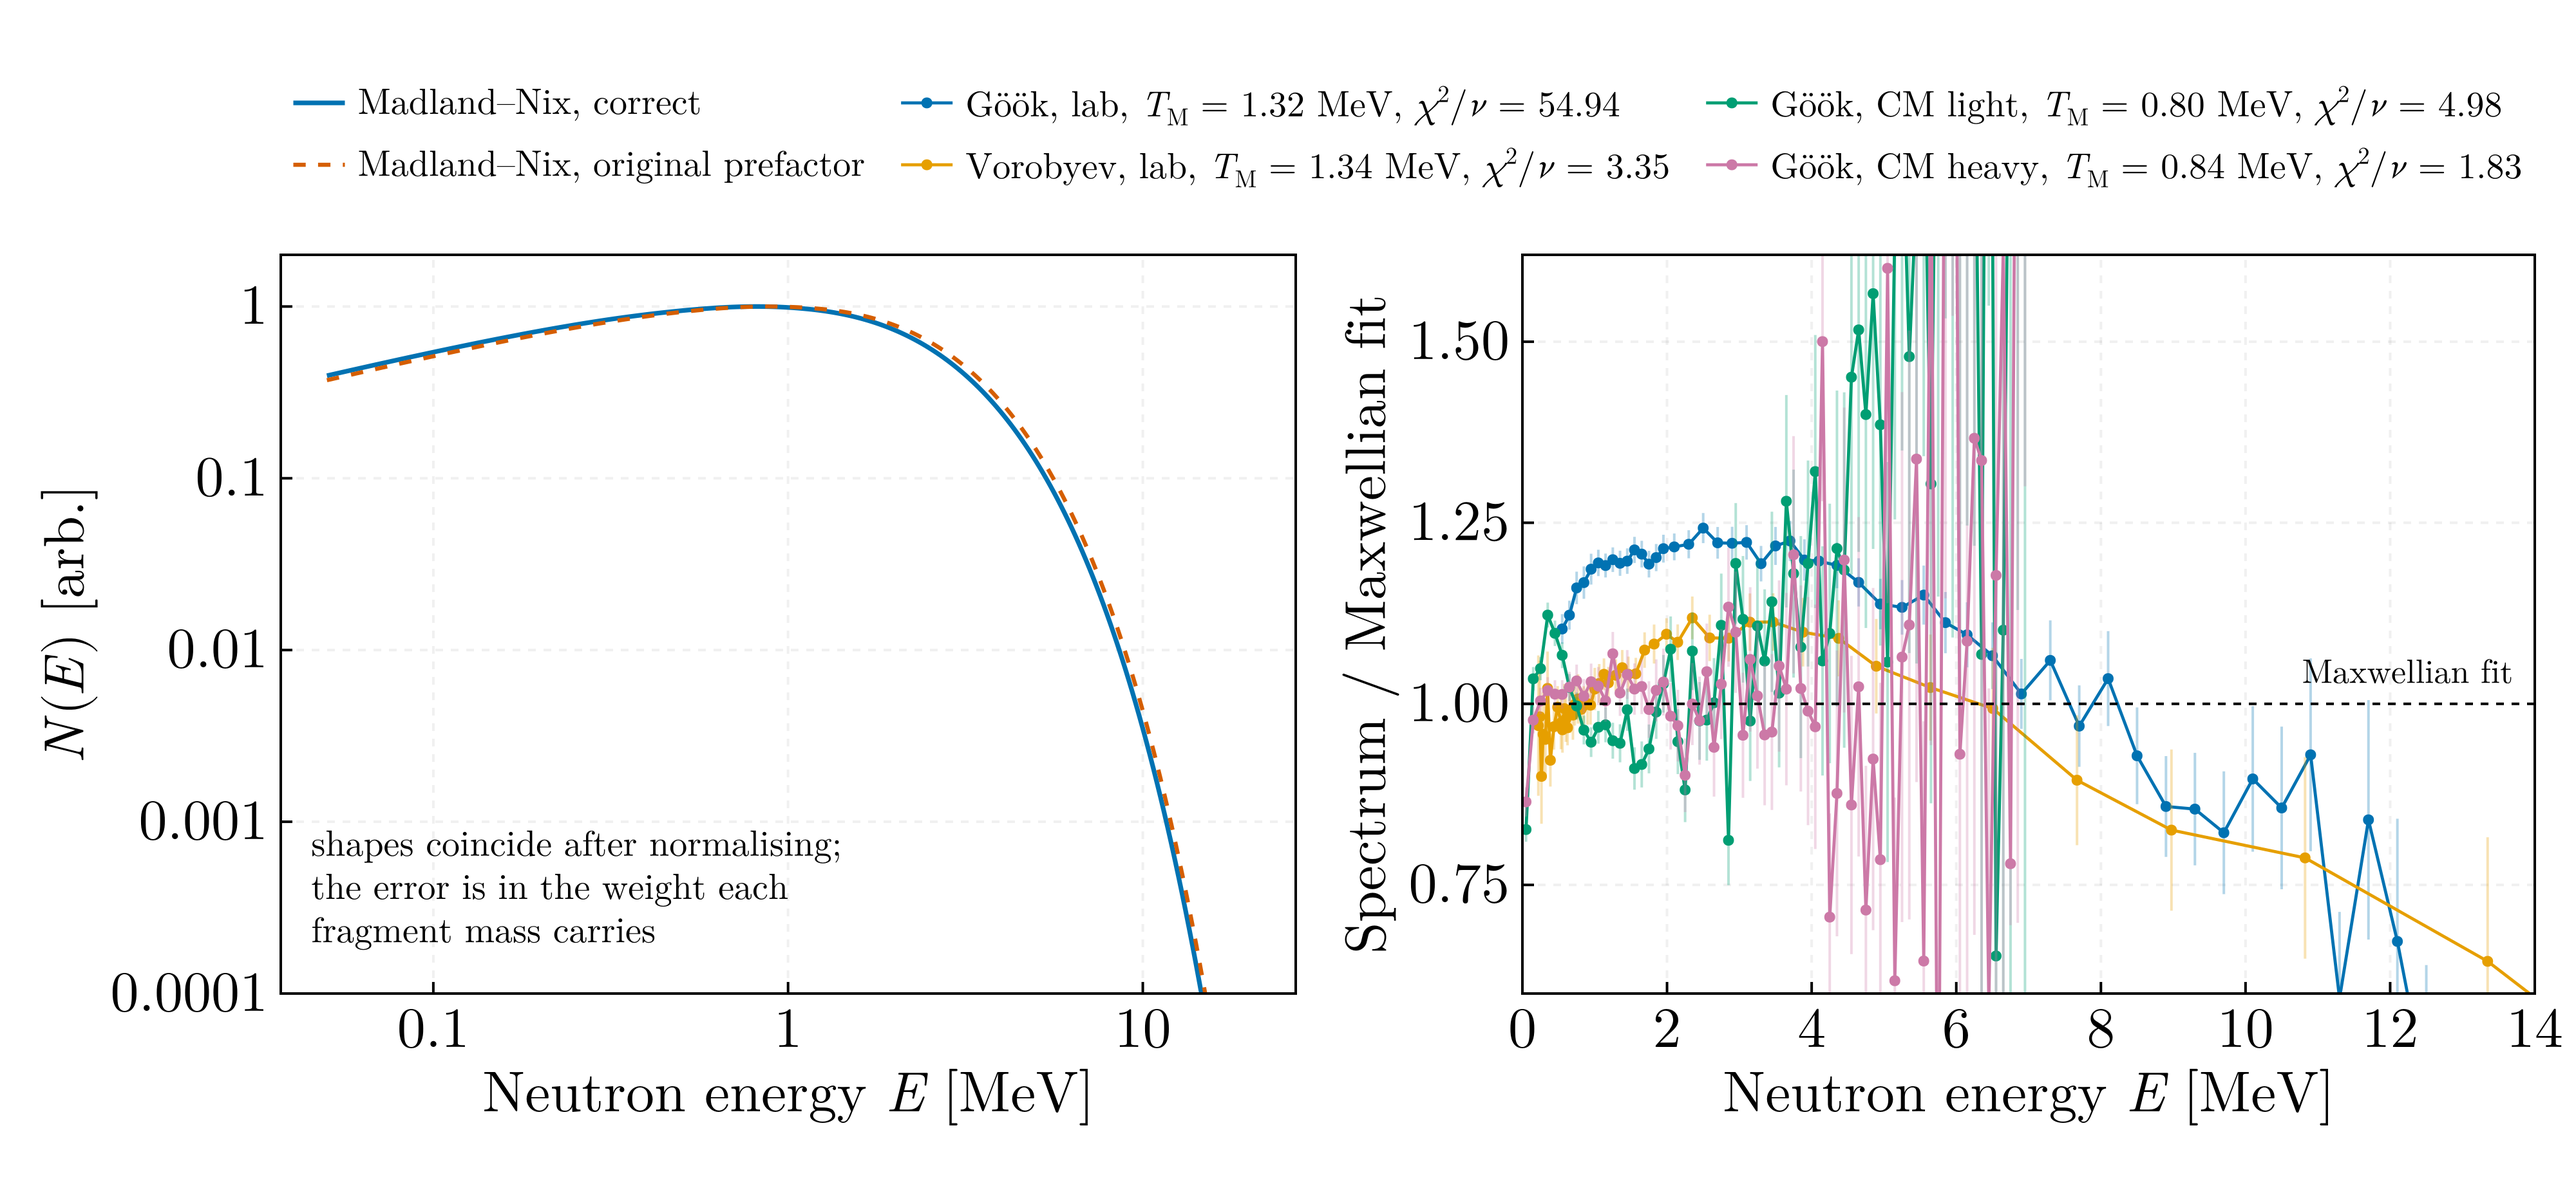
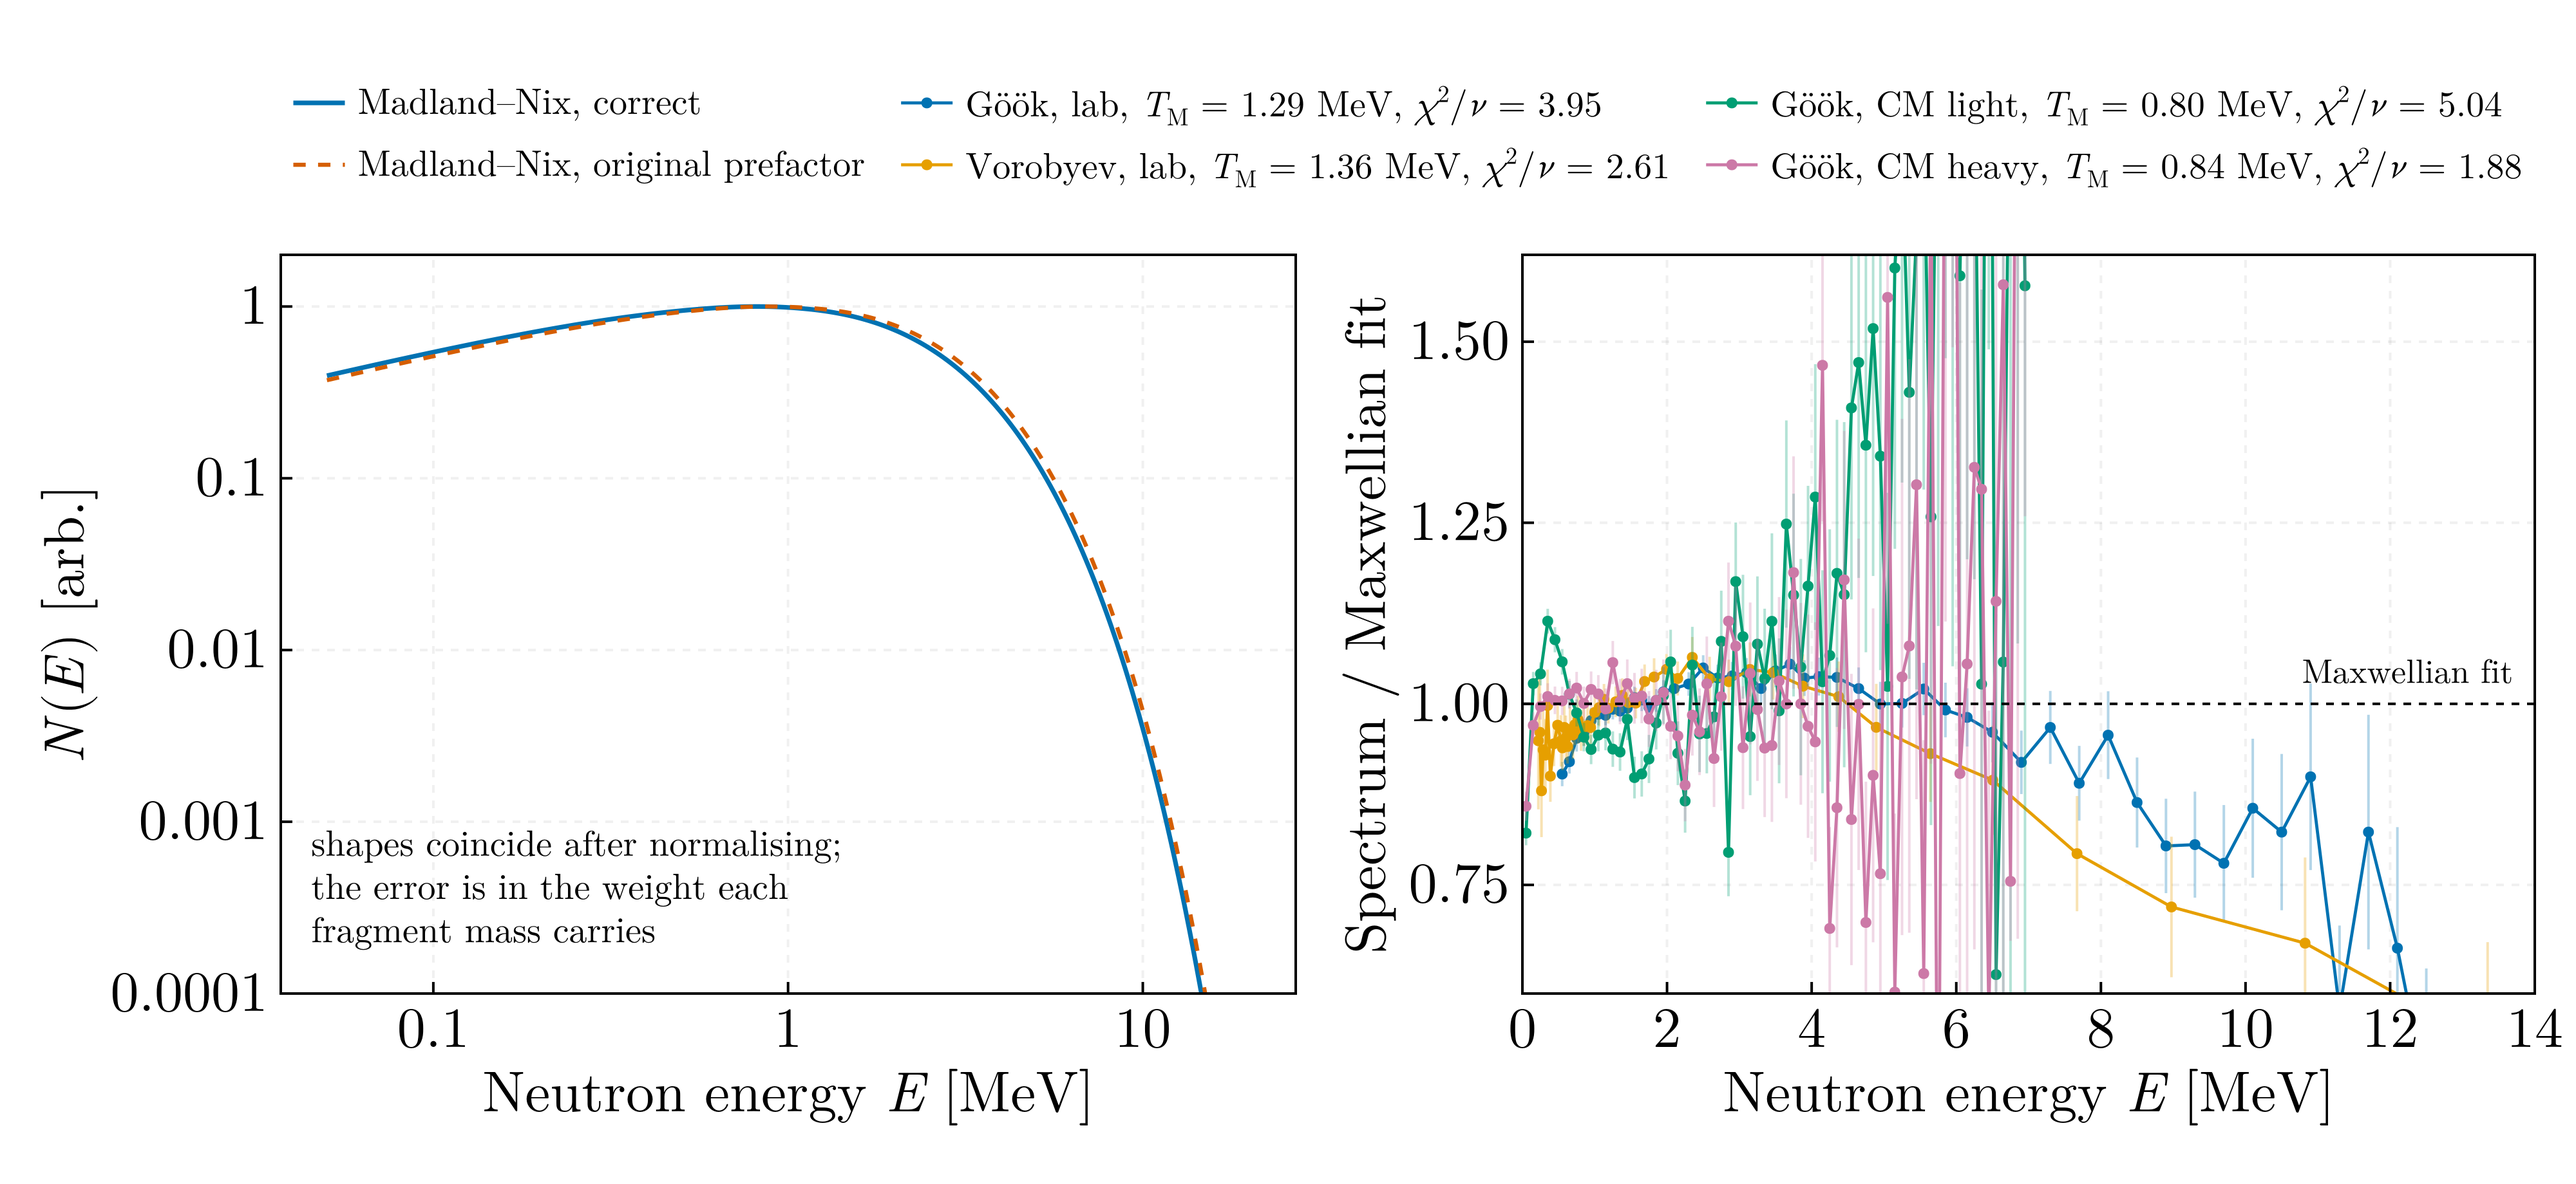
fix(msc/04): normalise the Maxwellian over the measured window
The fit normalised each measured spectrum to unit area over its own energy
window and compared it with a Maxwellian normalised over all energies. The
Göök laboratory set covers 0.55 to 12.5 MeV, 84 % of the distribution, so the
model sat a fifth below the data everywhere and the fit compensated with
temperature: T_M = 1.322 MeV at chi2/nu = 54.9.

Fisiune_5.jl had this right. It divided the model by its integral over
[E_min, E_max], a quantity that depends on T_M and so cannot be dropped as a
constant of the sum, which is how it was lost in the port. It is restored from
the closed-form distribution function, once per trial temperature:

  Göök, lab     1.3222 -> 1.2946 MeV, chi2/nu 54.9 -> 3.95
  Vorobyev, lab   1.3362 -> 1.3603 MeV, chi2/nu 3.35 -> 2.61
  CM light/heavy  0.7964/0.8388 -> 0.7998/0.8413 MeV

The Göök value now agrees with the 1.297 MeV the course quotes. The ratio
panel uses the same normalisation, which removes the offset of the laboratory
series from unity, and the README no longer reads that offset as physics.

Also correct the pair multiplicity quoted in two READMEs, 2.883, to the 2.573
the script has printed since the yield weighting was fixed.

diff --git a/msc/04-fission-observables/README.md b/msc/04-fission-observables/README.md
@@ -148,14 +148,21 @@ correct equivalent Maxwellian temperature of 1.40 MeV sits above the evaluated
 
 | Dataset | T_M [MeV] | χ²/ν |
 |---|---|---|
-| Göök, lab | 1.3222 | 54.9 |
-| Vorobyev, lab | 1.3362 | 3.35 |
-| Göök, CM light | 0.7964 | 4.98 |
-| Göök, CM heavy | 0.8388 | 1.83 |
+| Göök, lab | 1.2946 | 3.95 |
+| Vorobyev, lab | 1.3603 | 2.61 |
+| Göök, CM light | 0.7998 | 5.04 |
+| Göök, CM heavy | 0.8413 | 1.88 |
 
-The laboratory temperatures land on the evaluated ~1.32 MeV for ²³⁵U(n_th,f),
-and the centre-of-mass values sit well below them, as removing the fragment
-motion requires.
+The two laboratory temperatures bracket the evaluated ~1.32 MeV for
+²³⁵U(n_th,f), the Göök value agreeing with the 1.297 MeV the course quotes for
+the Hambsch and Kornilov set, and the centre-of-mass values sit well below
+them, as removing the fragment motion requires.
+
+Data and model are both normalised to unit area over the measured window. The
+window matters: the Göök laboratory spectrum runs from 0.55 to 12.5 MeV and
+holds 84 % of the Maxwellian, so comparing it with a Maxwellian normalised over
+all energies offsets the whole ratio by a fifth, drags T_M up to 1.322 MeV and
+returns χ²/ν = 54.9 for what is in fact a good fit.
 
 **The Madland–Nix prefactor was wrong.** The original wrote
 
@@ -196,8 +203,8 @@ p = 6.71 − Z²·0.156/A = 1.116 MeV        q = 0.75 + Z²·0.088/A = 3.905 MeV
 
 against Göök, Maslin, Nishio and Vorobyev.
 
-⟨ν_pair⟩ = **2.883** against the evaluated **2.42**, +19 %. The residual is the
-model: prompt γ emission competes for the same excitation energy and carries off
+⟨ν_pair⟩ = **2.573**, yield-weighted, against the evaluated **2.42**, +6 %. The
+residual is the model: prompt γ emission competes for the same excitation energy and carries off
 6–7 MeV per fission, which this balance does not account for. The measured sets
 average 1.16–1.32 neutrons per fragment, consistent with 2.42 for the pair.
 

diff --git a/README.md b/README.md
@@ -120,8 +120,8 @@ fails. A perturbation of 10⁻¹² changes y(100) from 0 to 59.7. The 2021 file 
 | Maximum binding energy per nucleon | 8.7946 MeV at **⁶²Ni**, over ⁵⁶Fe at 8.7904 |
 | ⟨TKE⟩ in ²³⁵U(n_th,f) | 170.55 MeV |
 | S_n(²³⁶U) | 6.546 MeV |
-| Prompt-neutron spectrum temperature | 1.322 and 1.336 MeV (lab), 0.796 and 0.839 (CM) |
-| Prompt-neutron pair multiplicity | 2.883 (evaluated 2.42) |
+| Prompt-neutron spectrum temperature | 1.295 and 1.360 MeV (lab), 0.800 and 0.841 (CM) |
+| Prompt-neutron pair multiplicity | 2.573 (evaluated 2.42) |
 | H₀ from three galaxies | 73.1 ± 11.4 km s⁻¹ Mpc⁻¹ |
 | H₀ from H(z), flat ΛCDM | 73.3 ± 5.1 km s⁻¹ Mpc⁻¹, Ω_m = 0.267 ± 0.064 |
 | Tessar objective focal length | 50.79 mm |
